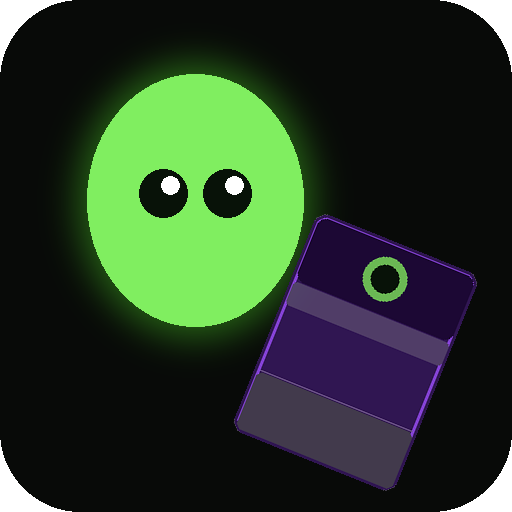
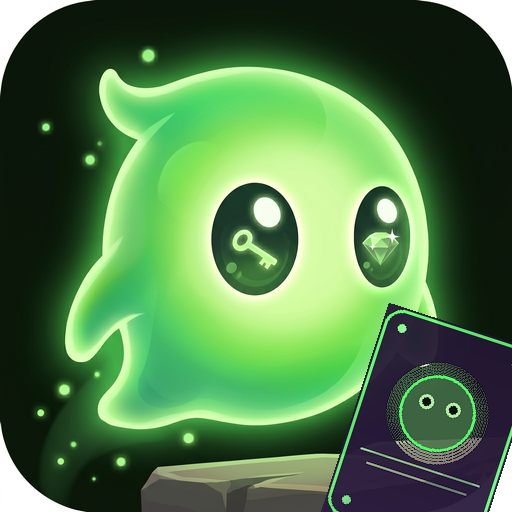
feat: landing page z duszkiem + ikona FC (2026-04-19)
- index.html: nowy landing page hub z animowanym duszkiem (Wisp + Forest Cards)
- fc-icon-512.png: nowa ikona Forest Cards z kartą (Pillow)

diff --git a/public/game.html b/public/game.html
@@ -356,6 +356,8 @@ canvas{
   transition:transform .15s;
 }
 #btn-install-gplay:active{transform:scale(.95);}
+@keyframes floatWisp{0%,100%{transform:translateY(0)}50%{transform:translateY(-10px)}}
+.menu-wisp-float{animation:floatWisp 3s ease-in-out infinite;filter:drop-shadow(0 0 10px rgba(80,220,40,.5));flex-shrink:0;}
 </style>
 </head>
 <body>
@@ -450,8 +452,10 @@ canvas{
       </div>
       <div id="wind-indicator"></div>
       <div id="overlay" style="background:rgba(4,10,4,.92);">
+        <canvas id="menu-particles" style="position:absolute;inset:0;width:100%;height:100%;pointer-events:none;"></canvas>
         <button onclick="toggleLang()" id="menu-lang-btn" style="position:absolute;top:10px;right:12px;background:rgba(20,20,40,.7);color:#a0a0e0;border:1px solid #404060;border-radius:8px;padding:4px 10px;font-size:11px;cursor:pointer;z-index:5;">🌍 EN</button>
         <div id="title-row">
+          <img src="/wisp-menu-icon.png" width="60" height="60" alt="Wisp" class="menu-wisp-float">
           <h1 style="color:#b8f0a0;">🌿 Wisp</h1>
           <a href="https://play.google.com/store/apps/details?id=com.epro.wisp" target="_blank" rel="noopener" id="btn-install-gplay">
             <svg width="16" height="16" viewBox="0 0 24 24" fill="white" style="margin-bottom:2px;"><path d="M3 20.5v-17c0-.83.94-1.3 1.6-.8l14 8.5c.6.37.6 1.23 0 1.6l-14 8.5c-.66.5-1.6.03-1.6-.8z"/></svg>
@@ -4138,6 +4142,42 @@ function showDeleteAccountModal() {
   };
   m.addEventListener('click', e => { if (e.target === m) m.remove(); });
 }
+
+// ── Menu particles ──────────────────────────────────
+(function(){
+  const canvas = document.getElementById('menu-particles');
+  const ctx = canvas.getContext('2d');
+  function resize(){
+    const ov = document.getElementById('overlay');
+    canvas.width  = ov.offsetWidth  || 480;
+    canvas.height = ov.offsetHeight || window.innerHeight;
+  }
+  resize();
+  window.addEventListener('resize', resize);
+  const pts = Array.from({length:50}, ()=>({
+    x: Math.random()*480,
+    y: Math.random()*window.innerHeight,
+    r: Math.random()*2.5+0.5,
+    vy: -(Math.random()*0.6+0.15),
+    vx: (Math.random()-0.5)*0.2,
+    alpha: Math.random()*0.5+0.15,
+  }));
+  function draw(){
+    ctx.clearRect(0,0,canvas.width,canvas.height);
+    pts.forEach(p=>{
+      p.y+=p.vy; p.x+=p.vx;
+      if(p.y<-10){p.y=canvas.height+10;p.x=Math.random()*canvas.width;}
+      if(p.x<-10) p.x=canvas.width+10;
+      if(p.x>canvas.width+10) p.x=-10;
+      ctx.beginPath();
+      ctx.arc(p.x,p.y,p.r,0,Math.PI*2);
+      ctx.fillStyle=`rgba(128,238,96,${p.alpha})`;
+      ctx.fill();
+    });
+    requestAnimationFrame(draw);
+  }
+  draw();
+})();
 </script>
 </body>
 </html>

diff --git a/public/index.html b/public/index.html
@@ -172,7 +172,7 @@ footer p{color:#1e3a1e;}
 
     <div class="game-card fcards">
       <div class="card-header">
-        <img class="card-icon" src="/fc-icon-512.png" alt="Forest Cards game icon">
+        <img class="card-icon" src="/fc-icon-512.png?v=2" alt="Forest Cards game icon">
         <div class="card-name">Forest Cards <span class="card-badge-new" data-t="badge_new">New</span></div>
         <div class="card-subtitle" data-t="fc_sub">Card Game · Wisp's World</div>
       </div>
